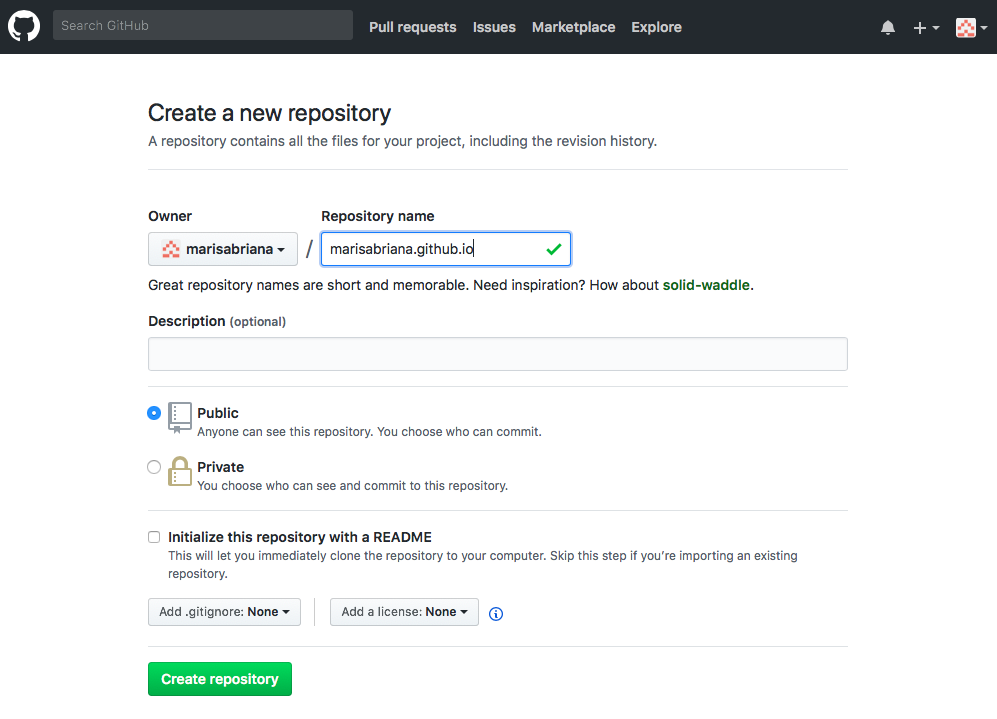
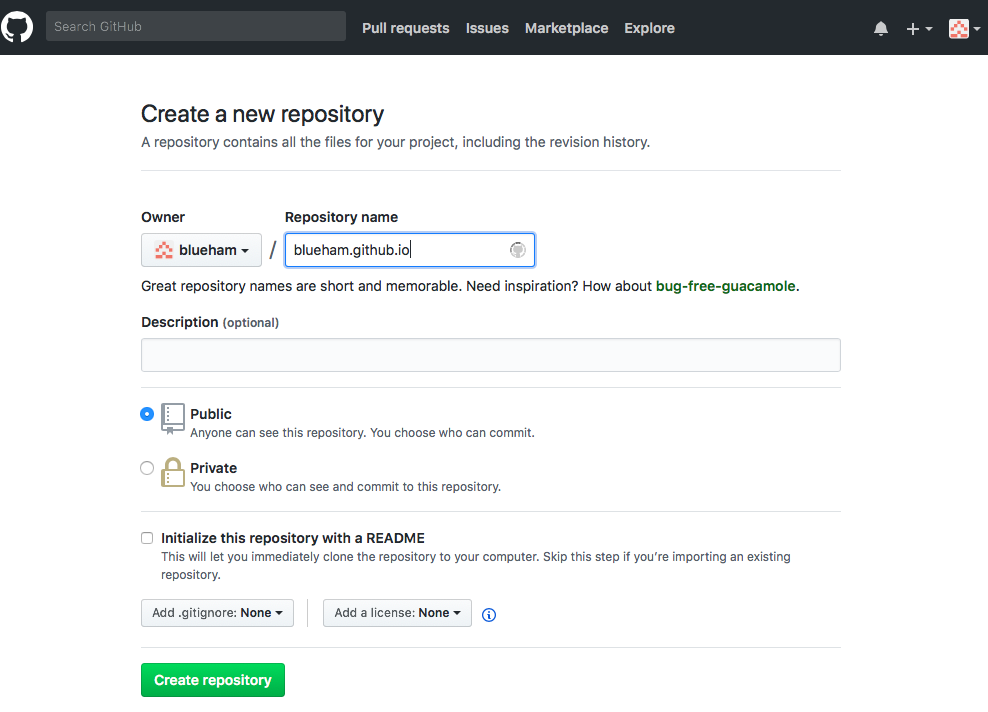
update

diff --git a/pages/create-simple-academic-website.md b/pages/create-simple-academic-website.md
@@ -105,7 +105,7 @@ cd simple_academic_website
    </div>
 
 
-7. Go to the [GitHub website](http://www.github.com) and create a new repository. You must call this repository username.github.io. If your username is marisabriana it will look like this:
+7. Go to the [GitHub website](http://www.github.com) and create a new repository. You must call this repository username.github.io. If your username is blueham it will look like this:
    ![create_new_repository]({{ BASE_PATH }}/assets/simple_website_tutorial/create_new_repository.png)
    [(click to zoom)]({{ BASE_PATH }}/assets/simple_website_tutorial/create_new_repository.png)
 
